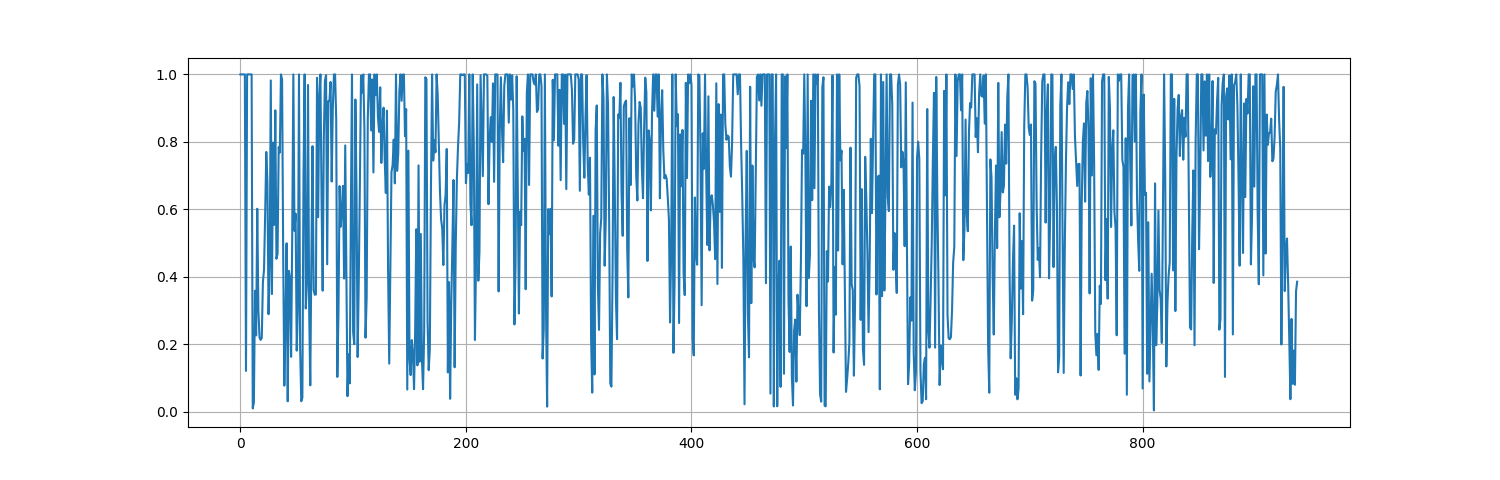
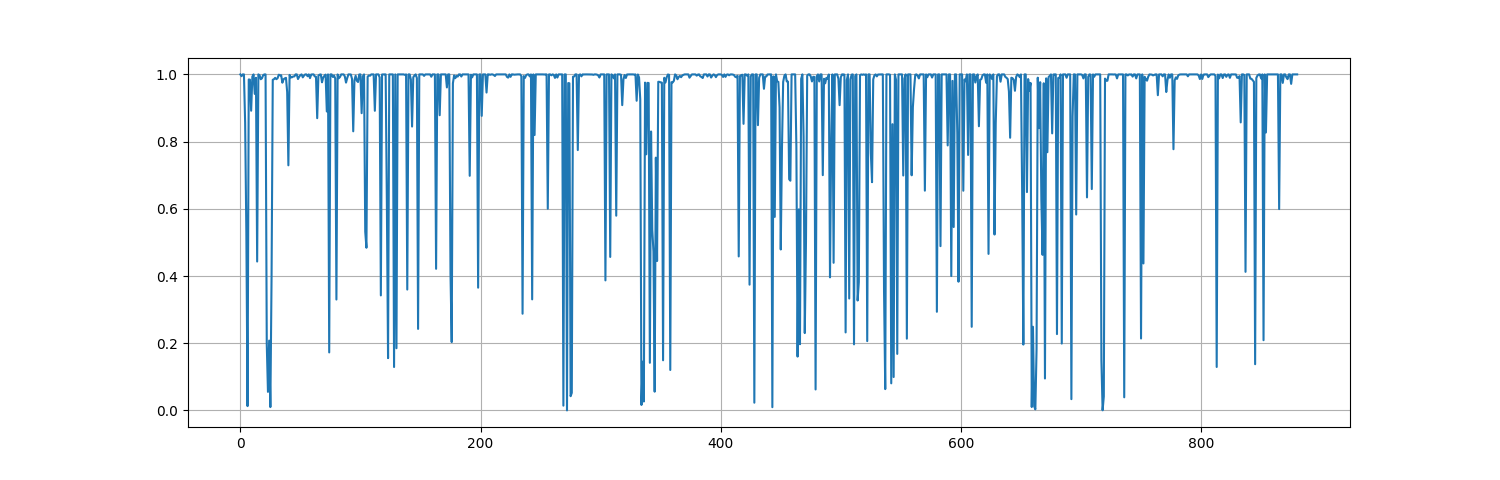
Update

diff --git a/pmixed.py b/pmixed.py
@@ -10,6 +10,9 @@ import matplotlib.pyplot as plt
 from scipy.optimize import bisect, brentq
 import os
 import tqdm
+import functools
+from itertools import combinations
+import multiprocessing as mp
 
 class PMixED():
     def __init__(self, model, model_dirs, model_name, tokenizer,
@@ -43,6 +46,8 @@ class PMixED():
         self.num_noise = [] 
         self.pub_model = model
         self.lora_ensemble = 0 
+        self.tau = 0.4 / self.alpha
+        self.ls_cum = np.zeros(self.num_ensemble-2) 
         for i, dir in enumerate(self.model_dirs):
             if i == 0:
                 self.lora_ensemble = PeftModel.from_pretrained(copy.deepcopy(
@@ -86,7 +91,8 @@ class PMixED():
         return eps
     
     @staticmethod
-    def data_dep_loss(mixed_dists, alpha, ret_idx=False):
+    @functools.cache
+    def data_dep_loss(mixed_dists, alpha, p_pub, ret_idx=False):
         max_loss = 0
         p = torch.stack(mixed_dists).mean(dim=0)
         mixed_dists = torch.stack(mixed_dists)
@@ -141,10 +147,15 @@ class PMixED():
         return np.random.choice(self.num_ensemble, np.random.binomial(self.num_ensemble, p))
 
     def lambda_eq(self, p, p_pub):
-        x = min(self.beta * self.alpha * (self.alpha-1) -
-                 (self.alpha-1) * PMixED.RDSym(p, p_pub, self.alpha),
-                 0)
-        return np.exp(x)
+        #x = min(self.beta * self.alpha * (self.alpha-1) -
+        #         (self.alpha-1) * PMixED.RDSym(p, p_pub, self.alpha),
+        #         0)
+        #return np.exp(x)
+        return min(
+            (np.exp(self.beta * self.alpha * (self.alpha-1)) - 1) / 
+            (np.exp((self.alpha-1) * PMixED.RDSym(p, p_pub, self.alpha)) - 1),
+            1.0
+        )
 
     def noisy_screen(self, pub_dist, priv_dists):
         '''
@@ -182,7 +193,7 @@ class PMixED():
                                   self.alpha)      
         return rd_noisy, noise
 
-    def update_privacy_loss(self, sample=False, mixed_dists=None, **kwargs):
+    def update_privacy_loss(self, sample=False, mixed_dists=None, p_pub=None, **kwargs):
         '''
         TODO: If noisy screening is not used, then don't account for it 
         '''
@@ -198,7 +209,7 @@ class PMixED():
         elif sample and self.accounting_method == "Independent":
             loss = self.subsample_eps(**kwargs)
         elif sample and self.accounting_method == "Dependent":
-            data_dep_loss = PMixED.data_dep_loss(mixed_dists, kwargs['alpha'])
+            data_dep_loss = PMixED.data_dep_loss(tuple(mixed_dists), kwargs['alpha'], p_pub)
             data_indep_loss = PMixED.sample_privacy_loss(self.alpha,
                                                      size=kwargs['size'],
                                                      beta=kwargs['beta'])
@@ -257,10 +268,8 @@ class PMixED():
             self.beta = self.beta_solver_bisection(len(sampled))
             self.target = self.beta * self.alpha
 
-        # In case top_k truncation was performed to avoid NaN
-        idxs = torch.nonzero(pub_dist)
-
-        self.lambdas = np.array([self.lambda_solver_bisection(priv_dists[i][idxs], pub_dist[idxs]) for i in sampled])
+        self.lambdas = np.array([self.lambda_solver_bisection(priv_dists[i], pub_dist) for i in sampled])
+        #self.lambdas = np.array([self.lambda_eq(priv_dists[i], pub_dist) for i in sampled])
         self.lambda_history.append(np.mean([lambd for lambd in self.lambdas]))
         mixed_dists = [self.mix(priv_dists[i], pub_dist, self.lambdas[lamb_i])
                        for lamb_i, i in enumerate(sampled)]
@@ -271,10 +280,66 @@ class PMixED():
                                  beta=self.beta,
                                  lambd=self.lambd,
                                  sigma=self.sigma,
-                                 mixed_dists=mixed_dists)
+                                 mixed_dists=mixed_dists,
+                                 p_pub=pub_dist)
         output_dist = torch.stack(mixed_dists).mean(dim=0)
+        #ls = self.fast_calc_ls(mixed_dists)
+        #self.ls_cum += ls
+        #self.ss = self.calc_ss(self.tau, self.ls_cum)
         return output_dist
 
+    def mix(self, p, p_prime, lambd=0.5):
+        return (lambd * p + (1-lambd) * p_prime)
+
+    def fast_calc_ls(self, mixed_dists):
+        max_ls = []
+        N = len(mixed_dists)
+        #avg_dists = torch.stack(mixed_dists).mean(dim=0)
+        #dist_eps_pair = [(dist, PMixED.RDSym(avg_dists, dist, self.alpha)) for dist in mixed_dists]
+        #dist_eps_pair.sort(key=lambda t: t[1])#, reverse=True)
+        dists = torch.stack(mixed_dists)
+
+        for d in range(0, N-2):
+            avg_dists = dists.mean(dim=0)
+            #dist_eps_pair = [(dist, PMixED.RDSym(avg_dists, dist, self.alpha)) for dist in dists]
+            dist_eps_pair = [(dists[i], PMixED.RDSym(avg_dists,
+                                                 torch.cat((dists[:i, :], 
+                                                            dists[i+1:, :])).mean(dim=0),
+                                                self.alpha))
+                                                for i in range(N-d)]
+
+            dist_eps_pair.sort(key=lambda t: t[1])#, reverse=True)
+            #eps = PMixED.data_dep_loss(tuple(dists), self.alpha)
+            eps = dist_eps_pair[-1][1]
+            #dist_prime = [val[0] for val in dist_eps_pair[:N-d-1]]
+            dist_prime = [val[0] for val in dist_eps_pair[:-1]]
+            eps_prime = PMixED.data_dep_loss(tuple(dist_prime), self.alpha)
+            ls = np.abs(eps-eps_prime)
+            max_ls.append(ls)
+
+            dists = torch.stack([val[0] for val in dist_eps_pair[1:]])
+        return np.array(max_ls)
+
+    def calc_ls(self, mixed_dists):
+        N = len(mixed_dists)
+        dist = mixed_dists
+        max_ls = [] 
+        for d in range(0, N-2):
+            n = len(dist)
+            dists_prime = combinations(dist, n-1)
+            eps = PMixED.data_dep_loss(tuple(dist), self.alpha) 
+            vals = [(dist_prime, PMixED.data_dep_loss(tuple(dist_prime), self.alpha)) for dist_prime in dists_prime]
+            eps_prime = min(vals, key = lambda t: t[1])[1]
+            dist = max(vals, key=lambda t: t[1])[0]
+            ls = (eps-eps_prime)**2
+            max_ls.append(ls)
+        return np.array(max_ls)
+    
+    def calc_ss(self, tau, ls_cum):
+        n = len(ls_cum)
+        factors = np.exp(-tau * np.arange(n))
+        return np.max(factors * ls_cum)
+    
     def priv_generate(self, input_ids,
                       max_length,
                       top_k=None,
@@ -314,9 +379,6 @@ class PMixED():
             generated_token_ids = torch.cat([generated_token_ids, next_token_id], dim=0)
             del next_token_id
         return generated_token_ids
-
-    def mix(self, p, p_prime, lambd=0.5):
-        return (lambd * p + (1-lambd) * p_prime)
 
     @staticmethod 
     def top_k_filtering(logits, top_k, filter_value=-float("Inf")):

diff --git a/prediction_experiments.py b/prediction_experiments.py
@@ -96,12 +96,13 @@ def main(args):
             ensemble_logits = []
 
             if k < args.query_budget:
-                for j in range(args.seq_length):
+                for j in tqdm.tqdm(range(args.seq_length), desc="Mixing"):
                     priv_dists_token = [priv_dist[j] for priv_dist in priv_dists]
                     pub_dist_token = pub_dist[j]
                     ensemble_output_dist = priv_ensemble.gen_priv_output_dist(pub_dist_token, priv_dists_token)
                     ensemble_logits.append(torch.log(ensemble_output_dist.cpu()))
                     k += 1
+                    #print("Smooth Sensitivity", priv_ensemble.ss)
 
                 ensemble_logits = torch.stack(ensemble_logits)
                 ensemble_neg_log_likelihood.append(calc_loss(ensemble_logits, labels.cpu()))

diff --git a/README.md b/README.md
@@ -66,46 +66,22 @@ And for the Ablation Study on the hyperparameters: ```python hyperparameter_expe
 To reproduce our comparison result, run the following command
 ```bash
 python prediction_experiments.py \
-    --num_ensemble=80 \
+    --num_ensemble=100 \
     --model_name=GPT2 \
-    --dataset=lm1b \
+    --dataset=wikitext \
+    --subset=wikitext-103-raw-v1 \
     --device=cuda:7 \
     --accounting_method=Dependent \
     --seq_length=512 \
     --epsilon=8.0 \
-    --query_budget=9728 \
+    --query_budget=1024 \
     --alpha=18 \
     --delta=1e-5 \
     --p=0.03 \
+    --threshold=4.5 \
     --sigma=1e-2 \
     --lambd=1e-4 \
-    --threshold=4.5 \
     --beta=0.2 \
     --screen_top_k=60 \
     --iters=1
-```
-
-## Generate DP Synthetic Text 
-To reproduce our comparison result, run the following command
-```bash
-python generate_text.py \
-    --num_ensemble=25 \
-    --model_name=GPT2 \
-    --dataset=yelp \
-    --input_training_file data/yelp_data/train.csv \
-    --output_dir . \
-    --seq_length=64 \
-    --total_sequences 1000 \
-    --device=cuda:7 \
-    --accounting_method=Dependent \
-    --epsilon=8.0 \
-    --alpha=18 \
-    --delta=1e-5 \
-    --p=0.03 \
-    --sigma=1e-2 \
-    --lambd=1e-4 \
-    --threshold=4.0 \
-    --beta=0.2 \
-    --screen_top_k=60 \
-    --top_k=200
 ```
